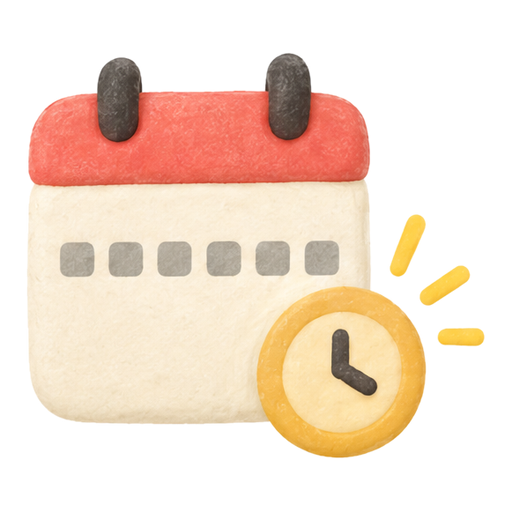
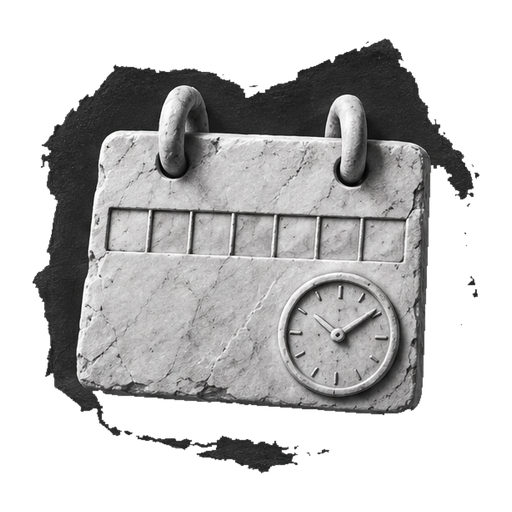
refactor: update illustration assets and enhance UI components for consistency
- Revised the `style.md` to clarify the specifications for illustration assets, including updated descriptions and usage guidelines.
- Adjusted icon sizes in the home period cards and related components to align with new design standards, ensuring visual coherence.
- Introduced new illustrations for screenshots and refined existing assets, enhancing the overall visual representation within the application.
- Updated accessibility labels and titles in the home view to improve user interaction and clarity.
- Enhanced layout adjustments in Swift UI components for better alignment and spacing across the application.

diff --git a/ios-app/PhotoDelete/Views/Review/Components/ReviewPhotoCard.swift b/ios-app/PhotoDelete/Views/Review/Components/ReviewPhotoCard.swift
@@ -65,7 +65,7 @@ private struct PhotoAlbumMembershipBadge: View {
 }
 
 
-/// 整理页照片框的承托面：对角渐变 + 顶亮底暗的微光描边。
+/// 整理页照片框的承托面：对角渐变 + 参考图上的细斜纹。
 private struct ReviewPhotoSurfaceBackground: View {
     var cornerRadius: CGFloat = Theme.radiusMd
 
@@ -82,6 +82,54 @@ private struct ReviewPhotoSurfaceBackground: View {
                     endPoint: UnitPoint(x: 0.64, y: 1.19)
                 )
             )
+            .overlay {
+                ReviewPhotoSurfaceTexture()
+                    .clipShape(
+                        RoundedRectangle(cornerRadius: cornerRadius, style: .continuous)
+                    )
+            }
+    }
+}
+
+/// 参考图渐变上可见的 145° 细斜纹：约 13pt 间隔的极淡光带，轻模糊成柔边。
+/// 用固定哈希决定每条光带的强度，保证同一条照片每次渲染完全一致。
+private struct ReviewPhotoSurfaceTexture: View {
+    var body: some View {
+        Canvas { context, size in
+            guard size.width > 0, size.height > 0 else { return }
+
+            let angle = CGFloat(145) * .pi / 180
+            let along = CGVector(dx: cos(angle), dy: sin(angle))
+            let across = CGVector(dx: -sin(angle), dy: cos(angle))
+            let span = abs(size.width * across.dx) + abs(size.height * across.dy)
+            let period: CGFloat = 13
+            let lineLength = span * 1.6
+            let center = CGPoint(x: size.width / 2, y: size.height / 2)
+
+            var offset = -span / 2
+            var index = 0
+            while offset <= span / 2 {
+                let hash = UInt64(bitPattern: Int64(index)) &* 0x9E37_79B9_7F4A_7C15
+                let strength = CGFloat((hash >> 40) % 1_000) / 1_000
+                let opacity = 0.010 + strength * 0.014
+
+                var path = Path()
+                path.move(to: CGPoint(
+                    x: center.x + across.dx * offset - along.dx * lineLength / 2,
+                    y: center.y + across.dy * offset - along.dy * lineLength / 2
+                ))
+                path.addLine(to: CGPoint(
+                    x: center.x + across.dx * offset + along.dx * lineLength / 2,
+                    y: center.y + across.dy * offset + along.dy * lineLength / 2
+                ))
+                context.stroke(path, with: .color(.white.opacity(opacity)), lineWidth: 5)
+
+                offset += period
+                index += 1
+            }
+        }
+        .blur(radius: 2.4)
+        .allowsHitTesting(false)
     }
 }
 

diff --git a/designs/home-period-cards.html b/designs/home-period-cards.html
@@ -178,7 +178,7 @@
   .type-cover.stack .p2{width:29px;height:29px;left:0;top:0;transform:rotate(-6deg)}
   .type-cover.stack .p1{width:31px;height:31px;right:0;bottom:0;transform:rotate(4deg)}
   .type-body{flex:1;min-width:0}
-  .type-body b{display:block;font-size:15px;font-weight:600}
+  .type-body b{display:block;font-size:16.5px;font-weight:600}
   .type-body small{display:block;font-size:11px;color:var(--ink2);margin-top:3px}
   .type-icon{width:48px;height:48px;display:flex;align-items:center;justify-content:center;
     flex-shrink:0}
@@ -568,7 +568,7 @@
       <div class="glabel"><b>专项清理</b><span class="muted">预计可清理 1.7 GB</span></div>
       <section class="type-list">
         <button class="type-row" data-toast="截图">
-          <span class="type-icon"><img src="illustrations/stacked.png" alt="" style="width:40px;height:40px"></span>
+          <span class="type-icon"><img src="illustrations/screenshot.png" alt="" style="width:42px;height:42px"></span>
           <span class="type-body"><b>截图</b><small>最早到 2019 年</small></span>
           <span class="type-count"><b class="num">112</b><small>张</small></span>
           <svg class="chev"><use href="#i-chev"/></svg>
@@ -582,14 +582,14 @@
         </button>
 
         <button class="type-row" data-toast="录屏与视频">
-          <span class="type-icon"><img src="illustrations/video.png" alt="" style="width:33px;height:33px"></span>
+          <span class="type-icon"><img src="illustrations/video.png" alt="" style="width:38px;height:38px"></span>
           <span class="type-body"><b>录屏与视频</b><small>已合并录屏 · 1.4 GB</small></span>
           <span class="type-count"><b class="num">18</b><small>段</small></span>
           <svg class="chev"><use href="#i-chev"/></svg>
         </button>
 
         <button class="type-row" data-toast="实况照片">
-          <span class="type-icon"><img src="illustrations/live.png" alt="" style="width:33px;height:33px"></span>
+          <span class="type-icon"><img src="illustrations/live.png" alt="" style="width:38px;height:38px"></span>
           <span class="type-body"><b>实况照片</b><small>最早到 2020 年</small></span>
           <span class="type-count"><b class="num">48</b><small>张</small></span>
           <svg class="chev"><use href="#i-chev"/></svg>

diff --git a/ios-app/PhotoDelete/Views/Home/HomeView.swift b/ios-app/PhotoDelete/Views/Home/HomeView.swift
@@ -641,8 +641,9 @@ struct HomeView: View {
 
             VStack(spacing: 0) {
                 PhotoDeleteListRow(
-                    iconImage: "CleanupStackedPhotosIcon",
-                    iconImageSize: 40,
+                    iconImage: "CleanupScreenshotsIcon",
+                    iconImageSize: 42,
+                    titleFont: .system(size: 16.5, weight: .semibold),
                     title: L10n.string("Screenshots"),
                     accessibilityIdentifier: "home-cleanup-screenshots"
                 ) {
@@ -652,6 +653,7 @@ struct HomeView: View {
                 PhotoDeleteListRow(
                     iconImage: "CleanupSimilarIcon",
                     iconImageSize: 42,
+                    titleFont: .system(size: 16.5, weight: .semibold),
                     title: L10n.string("Similar"),
                     value: cleanupQueue(for: .similarPhotos)?.formattedSpace,
                     accessibilityIdentifier: "home-cleanup-similar"
@@ -661,7 +663,8 @@ struct HomeView: View {
                 insetHairline(inset: 16)
                 PhotoDeleteListRow(
                     iconImage: "CleanupVideoIcon",
-                    iconImageSize: 33,
+                    iconImageSize: 38,
+                    titleFont: .system(size: 16.5, weight: .semibold),
                     title: L10n.string("Videos & Screen Recordings"),
                     value: videosAndScreenRecordingsQueueValue,
                     accessibilityIdentifier: "home-cleanup-videos"
@@ -671,7 +674,8 @@ struct HomeView: View {
                 insetHairline(inset: 16)
                 PhotoDeleteListRow(
                     iconImage: "CleanupLivePhotoIcon",
-                    iconImageSize: 33,
+                    iconImageSize: 38,
+                    titleFont: .system(size: 16.5, weight: .semibold),
                     title: L10n.string("Live Photos"),
                     accessibilityIdentifier: "home-cleanup-live-photos"
                 ) {

diff --git a/ios-app/PhotoDelete/Components/PhotoDeleteSharedUI.swift b/ios-app/PhotoDelete/Components/PhotoDeleteSharedUI.swift
@@ -191,6 +191,8 @@ struct PhotoDeleteListRow: View {
     var iconImage: String? = nil
     /// 图标的光学尺寸：同一组图标按视觉重量分别给 33–42，而不是一律 36。
     var iconImageSize: CGFloat = 36
+    /// 首页专项清理行与时间卡共用 16.5 字号；标准行保持 15/600。
+    var titleFont: Font = .system(size: 15, weight: .semibold)
     let title: String
     var subtitle: String? = nil
     var value: String? = nil
@@ -222,7 +224,7 @@ struct PhotoDeleteListRow: View {
 
                 VStack(alignment: .leading, spacing: 3) {
                     Text(title)
-                        .font(.system(size: 15, weight: .semibold))
+                        .font(titleFont)
                         .foregroundColor(Theme.primaryText)
 
                     if let subtitle {

diff --git a/ios-app/PhotoDelete/Views/Review/SwipePhotoView.swift b/ios-app/PhotoDelete/Views/Review/SwipePhotoView.swift
@@ -1122,7 +1122,8 @@ struct SwipePhotoView: View {
     }
 
     private func photoCardSize(in containerSize: CGSize) -> CGSize {
-        let availableWidth = max(containerSize.width, 180)
+        // 两侧留出页面边距；翻页步长仍是整页宽，卡片之间因此有可见间隔。
+        let availableWidth = max(containerSize.width - Theme.space5 * 2, 180)
         let availableHeight = max(containerSize.height - 132, 220)
         let maxSize = PhotoDeleteAdaptiveLayout.reviewPhotoCardMaxSize(
             in: containerSize,

diff --git a/style.md b/style.md
@@ -131,12 +131,14 @@ Decorative colors only appear on physical-object metaphors inside content areas 
 
 ### 2.8 Illustration assets
 
-The period and cleanup illustrations are **approved raster assets**, not color tokens:
+The period and cleanup illustrations are **approved raster assets**, not color tokens. The current set is a black-and-white stone-sculpture family:
 
-- Period: red/green/purple calendars (week/month/year).
-- Cleanup: stacked photos, photos+broom, red video camera, green camera.
+- Period: calendar + clock (week), grid calendar (month), sundial (year).
+- Cleanup: ornate frame (screenshots), twin busts (similar/duplicates), film camera (video/screen recordings), stone camera (live photos).
+- The dice is reserved for the random-review card; the broom is a spare/section-level asset until it has a row.
 - They are decorative, not status indicators. Do not recolor, tint, or use them to encode success/error.
 - Keep transparent PNGs; never bake a white background into the asset.
+- The set carries a baked dark contact halo. It is part of the material look and must stay consistent across icons; do not add a second tile background behind it.
 - The top-right collection/trash entry intentionally keeps the system line icon (`archivebox`) per product decision. Do not replace it with an illustration.
 
 ### 2.9 Color rules
@@ -389,6 +391,8 @@ The provided reference screens add useful composition patterns:
 - Floating surfaces (tray, toast, tab bar) may use translucency + hairline + `floatingShadow`.
 - Media cards can use a gradient or a photo; utility cards stay neutral.
 - Review photo frame (`RealPhotoCard`): diagonal `reviewPhotoSurfaceTop → reviewPhotoSurfaceBottom` fill (steeper than 45°, horizontal change ≈0.54× vertical) with a 1pt white 12% → 1% gradient stroke; no shadow. It is a photo frame surface, not decorative chrome.
+- Review photo frame sits inside a `space5` (20pt) side inset on both edges; the pager stride stays one full page wide, so adjacent cards keep a 40pt gap while swiping.
+- The frame gradient carries a deterministic 145° hairline texture: soft 5pt light bands every 13pt at white 1.0–2.4%, blurred 2.4pt. It is texture, not a second gradient; keep it low-contrast and static.
 
 ### 6.3 Section header
 
@@ -446,10 +450,10 @@ The provided reference screens add useful composition patterns:
 
 - User-provided PNG; transparent; no tile background.
 - Optical size by visual weight, not one mechanical size:
-  - 相似与重复: **42pt**
-  - 截图 (stacked photos): **40pt**
-  - 录屏与视频: **33pt**
-  - 实况照片: **33pt**
+  - 相似与重复 (twin busts): **42pt**
+  - 截图 (ornate frame): **42pt**
+  - 录屏与视频 (film camera): **38pt**
+  - 实况照片 (stone camera): **38pt**
 - Shadow: black 20%, radius 2, y 1.
 - Icon center 40pt aligns with period-card illustrations; title x 80pt aligns with period-card titles.
 
@@ -959,12 +963,13 @@ Use these to prevent regressions:
 3. **Period card split interaction:** card body enters the current period; right zone (选日期 / 选月份 / 选年份) opens the period sheet.
 4. **Period sheet lists other periods only**; the first “本期全部” row was removed. Empty state is “暂无其他周期”.
 5. **Special cleanup order:** 截图 → 相似与重复 → 录屏与视频 → 实况照片.
-6. **Cleanup icons are optically sized** (42 / 40 / 33 / 33) inside a transparent 48pt slot; no tile background.
+6. **Cleanup icons are optically sized** (42 / 42 / 38 / 38) inside a transparent 48pt slot; no tile background.
 7. **Shared optical axes:** icon center 40, title column 80; period cards and cleanup rows use the same grid.
 8. **Hairline inset 16** in the cleanup card; 62pt row height.
-9. **User-provided 3D icons** replaced all prototype illustrations; do not reintroduce the earlier CocoMaterial SVGs.
+9. **User-provided stone-sculpture icons** replaced the earlier colorful calendars/cleanup set; do not reintroduce the CocoMaterial SVGs or the bright 3D clay icons.
 10. **Header collection/trash icon stays the system `archivebox` line icon**; this is a deliberate exception to the illustration language.
 11. **Functional amber removed (2026-10-25):** the action layer is monochrome white; amber/coral remain only in the two home entry cards. Switches use `Theme.positive` green; section trailing and tab selection are neutral. Do not reintroduce amber CTAs, tabs, toggles, or section totals.
+12. **Stone icon set (2026-10-25):** period icons are calendar+clock / grid calendar / sundial; cleanup icons are frame / twin busts / film camera / stone camera. Optical sizes are 42 / 42 / 38 / 38. The dice is reserved for the random card; the broom is a spare asset.
 
 ---
 
@@ -1000,4 +1005,4 @@ What not to copy:
 | Radii | 12 / 16 / 24 / 32; capsules 999 |
 | Motion | press 0.14s; state 0.16–0.24s; count 0.9s; fan 0.62s; sheet ≈0.34s |
 | Home axes | icon center 40; title column 80; period card 80 high; cleanup row 62 high |
-| Optical sizes | similar 42; screenshots 40; video 33; live 33 |
+| Optical sizes | similar 42; screenshots 42; video 38; live 38 |
